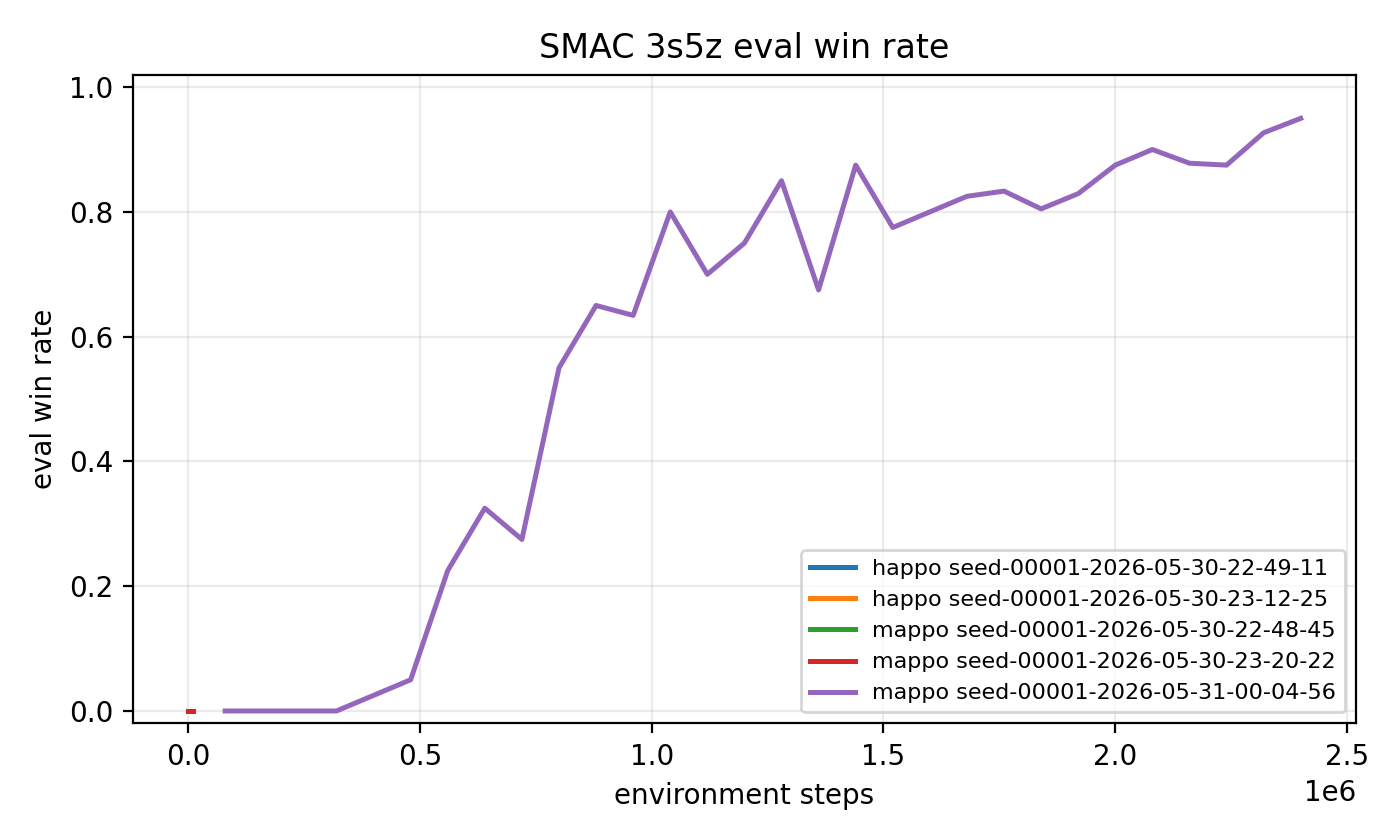
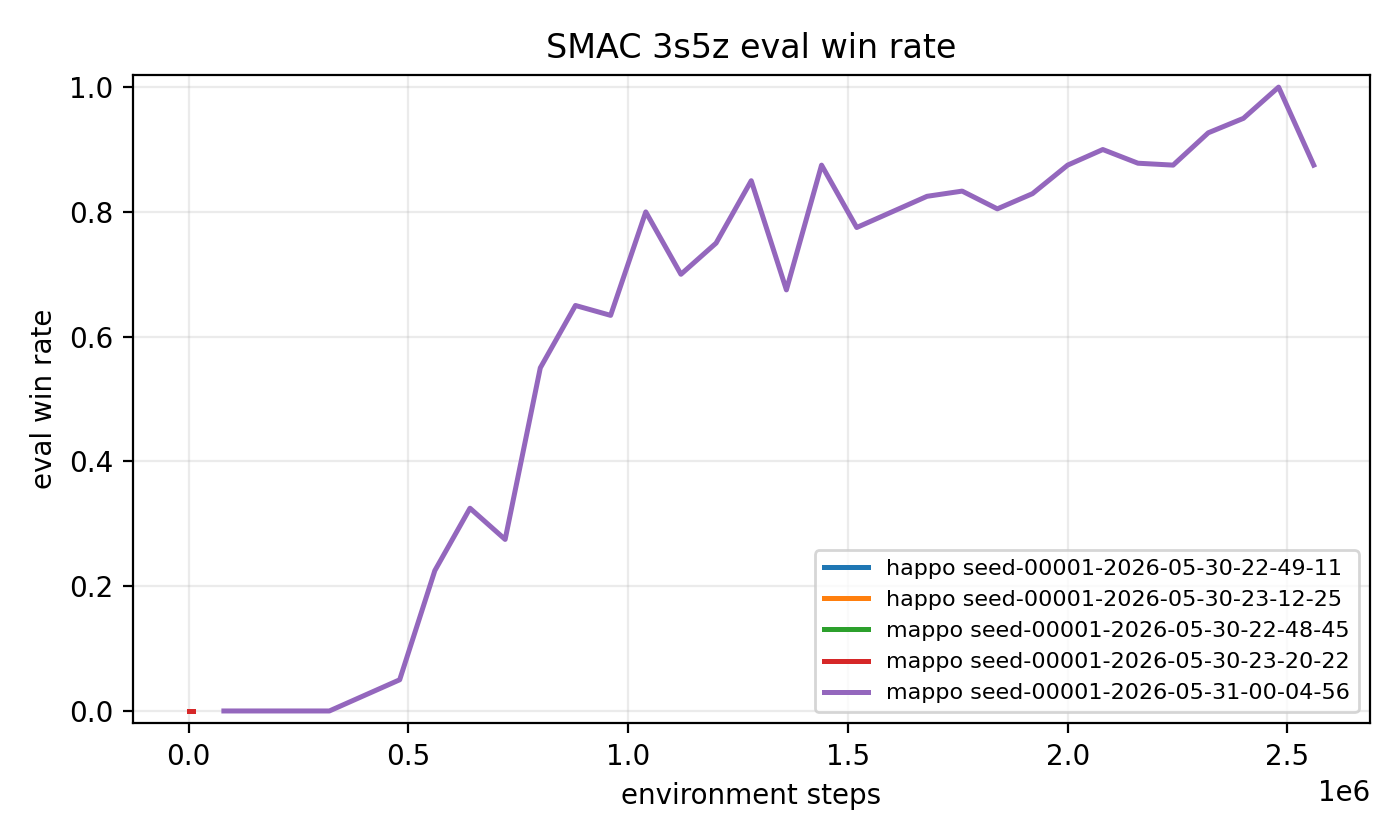
data: update full training checkpoint to 2.56m

diff --git a/report/report.html b/report/report.html
@@ -98,7 +98,7 @@
 
   <div class="abstract">
     <strong>摘要：</strong>
-    本文基于 HARL 代码库和 SMAC 环境，复现 MAPPO 与 HAPPO 在 <code>3s5z</code> 和 <code>8m_vs_9m</code> 两个地图上的训练流程。当前工作已经完成环境安装、代码定位、四组 smoke test、四组 10000-step pilot、<code>progress.txt</code> 汇总和 win rate 绘图；单 seed 正式训练已启动，并同步到 <code>3s5z</code> MAPPO 的 2400000-step checkpoint。由于完整长训练尚未结束，本文现阶段报告重点是复现流程、代码对应关系和阶段性验证结果。
+    本文基于 HARL 代码库和 SMAC 环境，复现 MAPPO 与 HAPPO 在 <code>3s5z</code> 和 <code>8m_vs_9m</code> 两个地图上的训练流程。当前工作已经完成环境安装、代码定位、四组 smoke test、四组 10000-step pilot、<code>progress.txt</code> 汇总和 win rate 绘图；单 seed 正式训练已启动，并同步到 <code>3s5z</code> MAPPO 的 2560000-step checkpoint。由于完整长训练尚未结束，本文现阶段报告重点是复现流程、代码对应关系和阶段性验证结果。
   </div>
 
   <div class="columns">
@@ -154,7 +154,7 @@
     </table>
 
     <h2>7. 结果与分析</h2>
-    <p>目前已完成四组 1000 environment steps 的 smoke test，用于验证环境、训练脚本、日志收集和绘图流程。随后又完成了四组 10000-step pilot run，覆盖 MAPPO/HAPPO 与 <code>3s5z</code>/<code>8m_vs_9m</code> 的完整实验矩阵。2026-05-31 已在 tmux 中启动单 seed full tuned config，并同步到 <code>3s5z</code> MAPPO 的 30 个 evaluation，当前最新 step 为 2400000。由于正式训练仍在运行，这些结果只能作为流程、短跑和早期 full checkpoint 证据，不能作为最终算法性能结论。</p>
+    <p>目前已完成四组 1000 environment steps 的 smoke test，用于验证环境、训练脚本、日志收集和绘图流程。随后又完成了四组 10000-step pilot run，覆盖 MAPPO/HAPPO 与 <code>3s5z</code>/<code>8m_vs_9m</code> 的完整实验矩阵。2026-05-31 已在 tmux 中启动单 seed full tuned config，并同步到 <code>3s5z</code> MAPPO 的 32 个 evaluation，当前最新 step 为 2560000。由于正式训练仍在运行，这些结果只能作为流程、短跑和早期 full checkpoint 证据，不能作为最终算法性能结论。</p>
     <table>
       <caption>Pilot run 最后一次 evaluation 结果</caption>
       <thead>
@@ -173,7 +173,7 @@
         <tr><th>地图</th><th>算法</th><th>Step</th><th>Eval reward / win rate</th></tr>
       </thead>
       <tbody>
-        <tr><td><code>3s5z</code></td><td>MAPPO</td><td>2400000</td><td>19.6812 / 0.95</td></tr>
+        <tr><td><code>3s5z</code></td><td>MAPPO</td><td>2560000</td><td>19.1910 / 0.875</td></tr>
       </tbody>
     </table>
     <figure>
@@ -184,7 +184,7 @@
       <img src="../figures/win_rate_8m_vs_9m.png" alt="8m_vs_9m win rate">
       <figcaption><code>8m_vs_9m</code> smoke/pilot eval win rate；该地图 full run 尚未到达第一轮评估。</figcaption>
     </figure>
-    <p>正式训练完成后，应使用相同脚本重新生成曲线，并重点比较 MAPPO 与 HAPPO 的收敛速度、最终胜率和训练稳定性。对于当前结果，主要结论是训练、评估、日志、汇总和绘图链路已经打通；四组 pilot 均能稳定运行到 10000-step 量级；full 模式已成功进入第一组 MAPPO/<code>3s5z</code> 训练并写出 evaluation，早期 win rate 已从 0 增至最新 0.95，当前最佳同为 0.95。但 2400000 步仍远低于 HARL tuned config 中的 2000 万步，不能用于判断 MAPPO 与 HAPPO 的最终性能。</p>
+    <p>正式训练完成后，应使用相同脚本重新生成曲线，并重点比较 MAPPO 与 HAPPO 的收敛速度、最终胜率和训练稳定性。对于当前结果，主要结论是训练、评估、日志、汇总和绘图链路已经打通；四组 pilot 均能稳定运行到 10000-step 量级；full 模式已成功进入第一组 MAPPO/<code>3s5z</code> 训练并写出 evaluation，早期 win rate 已从 0 增至最新 0.875，当前最佳为 1.0，出现在 2480000 步。但 2560000 步仍远低于 HARL tuned config 中的 2000 万步，不能用于判断 MAPPO 与 HAPPO 的最终性能。</p>
 
     <h2>8. 局限性</h2>
     <p>当前结果的主要局限是训练步数不足。SMAC 任务需要大量交互样本才能学习到稳定微操策略，尤其是 <code>8m_vs_9m</code> 这种非对称地图，随机策略和短训练几乎不可能得到胜利。因此当前 eval win rate 为 0 并不说明算法无效，只说明当前运行覆盖了流程验证、四组短跑检查和一个早期 full checkpoint。正式报告中应补充完整训练曲线，或明确说明计算预算不足导致未完成正式复现。</p>

diff --git a/report/main.tex b/report/main.tex
@@ -26,7 +26,7 @@
 ]
 
 \begin{abstract}
-本文基于 HARL 代码库和 SMAC 环境，复现 MAPPO 与 HAPPO 在 \texttt{3s5z} 和 \texttt{8m\_vs\_9m} 两个地图上的训练流程。当前工作已经完成环境安装、代码定位、四组 smoke test、四组 10000-step pilot、\texttt{progress.txt} 汇总和 win rate 绘图；单 seed 正式训练已启动，并同步到 \texttt{3s5z} MAPPO 的 2400000-step checkpoint。由于完整长训练尚未结束，本文现阶段报告重点是复现流程、代码对应关系和阶段性验证结果。
+本文基于 HARL 代码库和 SMAC 环境，复现 MAPPO 与 HAPPO 在 \texttt{3s5z} 和 \texttt{8m\_vs\_9m} 两个地图上的训练流程。当前工作已经完成环境安装、代码定位、四组 smoke test、四组 10000-step pilot、\texttt{progress.txt} 汇总和 win rate 绘图；单 seed 正式训练已启动，并同步到 \texttt{3s5z} MAPPO 的 2560000-step checkpoint。由于完整长训练尚未结束，本文现阶段报告重点是复现流程、代码对应关系和阶段性验证结果。
 \end{abstract}
 
 \section{引言}
@@ -100,7 +100,7 @@ HAPPO & \texttt{8m\_vs\_9m} & HARL tuned config \\
 
 \section{结果与分析}
 
-目前已完成四组 1000 environment steps 的 smoke test，用于验证环境、训练脚本、日志收集和绘图流程。随后又完成了四组 10000-step pilot run，覆盖 MAPPO/HAPPO 与 \texttt{3s5z}/\texttt{8m\_vs\_9m} 的完整实验矩阵。2026-05-31 已在 tmux 中启动单 seed full tuned config，并同步到 \texttt{3s5z} MAPPO 的 30 个 evaluation，当前最新 step 为 2400000。由于正式训练仍在运行，这些结果只能作为流程、短跑和早期 full checkpoint 证据，不能作为最终算法性能结论。
+目前已完成四组 1000 environment steps 的 smoke test，用于验证环境、训练脚本、日志收集和绘图流程。随后又完成了四组 10000-step pilot run，覆盖 MAPPO/HAPPO 与 \texttt{3s5z}/\texttt{8m\_vs\_9m} 的完整实验矩阵。2026-05-31 已在 tmux 中启动单 seed full tuned config，并同步到 \texttt{3s5z} MAPPO 的 32 个 evaluation，当前最新 step 为 2560000。由于正式训练仍在运行，这些结果只能作为流程、短跑和早期 full checkpoint 证据，不能作为最终算法性能结论。
 
 \begin{table}[h]
 \centering
@@ -124,7 +124,7 @@ HAPPO & \texttt{8m\_vs\_9m} & HARL tuned config \\
 \toprule
 地图 & 算法 & Step & Eval reward / win rate \\
 \midrule
-\texttt{3s5z} & MAPPO & 2400000 & 19.6812 / 0.95 \\
+\texttt{3s5z} & MAPPO & 2560000 & 19.1910 / 0.875 \\
 \bottomrule
 \end{tabular}
 \end{table}
@@ -141,7 +141,7 @@ HAPPO & \texttt{8m\_vs\_9m} & HARL tuned config \\
 \caption{\texttt{8m\_vs\_9m} smoke/pilot eval win rate；该地图 full run 尚未到达第一轮评估。}
 \end{figure}
 
-正式训练完成后，应使用相同脚本重新生成曲线，并重点比较 MAPPO 与 HAPPO 的收敛速度、最终胜率和训练稳定性。对于当前结果，主要结论是：训练、评估、日志、汇总和绘图链路已经打通；四组 pilot 均能稳定运行到 10000-step 量级；full 模式已成功进入第一组 MAPPO/\texttt{3s5z} 训练并写出 evaluation，早期 win rate 已从 0 增至最新 0.95，当前最佳同为 0.95。但 2400000 步仍远低于 HARL tuned config 中的 2000 万步，不能用于判断 MAPPO 与 HAPPO 的最终性能。
+正式训练完成后，应使用相同脚本重新生成曲线，并重点比较 MAPPO 与 HAPPO 的收敛速度、最终胜率和训练稳定性。对于当前结果，主要结论是：训练、评估、日志、汇总和绘图链路已经打通；四组 pilot 均能稳定运行到 10000-step 量级；full 模式已成功进入第一组 MAPPO/\texttt{3s5z} 训练并写出 evaluation，早期 win rate 已从 0 增至最新 0.875，当前最佳为 1.0，出现在 2480000 步。但 2560000 步仍远低于 HARL tuned config 中的 2000 万步，不能用于判断 MAPPO 与 HAPPO 的最终性能。
 
 \section{局限性}
 

diff --git a/logs/artifact_manifest.md b/logs/artifact_manifest.md
@@ -6,7 +6,7 @@ This manifest records deterministic SHA256 hashes for submitted source, report, 
 | --- | ---: | --- |
[7 lines of base64/hex data omitted]
@@ -14,12 +14,12 @@ This manifest records deterministic SHA256 hashes for submitted source, report, 
[15 lines of base64/hex data omitted]
@@ -27,17 +27,17 @@ This manifest records deterministic SHA256 hashes for submitted source, report, 
[23 lines of base64/hex data omitted]
@@ -66,5 +66,5 @@ This manifest records deterministic SHA256 hashes for submitted source, report, 
 ## Summary
 
 - Files: 58
-- Total bytes: 1225880
+- Total bytes: 1231843
 - Excludes generated validation and manifest files to avoid self-referential churn.

diff --git a/logs/experiment_notes.md b/logs/experiment_notes.md
@@ -6,7 +6,7 @@
 | --- | --- | --- | --- |
 | HAPPO | `3s5z` | HARL tuned config | smoke test 与 10000-step pilot 通过，full 队列中 |
 | HAPPO | `8m_vs_9m` | HARL tuned config | smoke test 与 10000-step pilot 通过 |
-| MAPPO | `3s5z` | 基于同地图 HAPPO tuned config 生成 MAPPO 配置 | smoke test 与 10000-step pilot 通过，full 已启动并同步到 2400000-step checkpoint |
+| MAPPO | `3s5z` | 基于同地图 HAPPO tuned config 生成 MAPPO 配置 | smoke test 与 10000-step pilot 通过，full 已启动并同步到 2560000-step checkpoint |
 | MAPPO | `8m_vs_9m` | 基于同地图 HAPPO tuned config 生成 MAPPO 配置 | smoke test 与 10000-step pilot 通过 |
 
 ## dry-run 结果
@@ -80,9 +80,9 @@ SESSION=hw3_full_20260531_seed1 SEEDS=1 EXP_PREFIX=hw3_full bash scripts/launch_
 阶段性结果：
 
 - tmux 会话 `hw3_full_20260531_seed1` 仍在运行。
-- 当前已同步 `MAPPO` + `3s5z` 的 30 个 full evaluation 到 `results/raw/full/`。
-- `results/processed/progress_summary.csv` 当前共有 102 行，其中 full 贡献 30 行。
-- 当前最新 full checkpoint 位于 2400000 environment steps，eval reward 为 19.6812，eval win rate 为 0.95；当前最佳 win rate 为 0.95。
+- 当前已同步 `MAPPO` + `3s5z` 的 32 个 full evaluation 到 `results/raw/full/`。
+- `results/processed/progress_summary.csv` 当前共有 104 行，其中 full 贡献 32 行。
+- 当前最新 full checkpoint 位于 2560000 environment steps，eval reward 为 19.1910，eval win rate 为 0.875；当前最佳 win rate 为 1.0，出现在 2480000 environment steps。
 
 ## 运行记录模板
 
@@ -92,7 +92,7 @@ SESSION=hw3_full_20260531_seed1 SEEDS=1 EXP_PREFIX=hw3_full bash scripts/launch_
 | 2026-05-30 | `MAPS=3s5z ALGOS=happo EXP_PREFIX=hw3_pilot SEEDS=1 conda run -n harl_hw3 bash scripts/run_smac_experiments.sh pilot` | 1 | `external/HARL/examples/results/smac/3s5z/happo/hw3_pilot_pilot_happo_3s5z/seed-00001-2026-05-30-23-12-25` | 10000-step pilot 通过 |
 | 2026-05-30 | `MAPS=3s5z ALGOS=mappo EXP_PREFIX=hw3 SEEDS=1 conda run -n harl_hw3 bash scripts/run_smac_experiments.sh pilot` | 1 | `external/HARL/examples/results/smac/3s5z/mappo/hw3_pilot_mappo_3s5z/seed-00001-2026-05-30-23-20-22` | 10000-step pilot 通过 |
 | 2026-05-30 | `MAPS=8m_vs_9m ALGOS="mappo happo" EXP_PREFIX=hw3 SEEDS=1 conda run -n harl_hw3 bash scripts/run_smac_experiments.sh pilot` | 1 | `external/HARL/examples/results/smac/8m_vs_9m/...` | 2 组 10000-step pilot 通过 |
-| 2026-05-31 | `SESSION=hw3_full_20260531_seed1 SEEDS=1 EXP_PREFIX=hw3_full bash scripts/launch_training_tmux.sh full` | 1 | `external/HARL/examples/results/smac/3s5z/mappo/hw3_full_full_mappo_3s5z/seed-00001-2026-05-31-00-04-56` | 正式训练运行中；已同步到 2400000-step checkpoint |
+| 2026-05-31 | `SESSION=hw3_full_20260531_seed1 SEEDS=1 EXP_PREFIX=hw3_full bash scripts/launch_training_tmux.sh full` | 1 | `external/HARL/examples/results/smac/3s5z/mappo/hw3_full_full_mappo_3s5z/seed-00001-2026-05-31-00-04-56` | 正式训练运行中；已同步到 2560000-step checkpoint |
 
 ## 观察模板
 

diff --git a/SUBMISSION.md b/SUBMISSION.md
@@ -10,7 +10,7 @@
 - `configs/smac/`：MAPPO/HAPPO × `3s5z`/`8m_vs_9m` 的配置快照。
 - `results/raw/smoke/`：4 组 smoke test 的原始 `progress.txt`。
 - `results/raw/pilot/`：4 组 10000-step pilot 的原始 `progress.txt`。
-- `results/raw/full/`：正式训练同步进来的阶段性 `progress.txt`；当前包含 `MAPPO` + `3s5z` 到 2400000-step 的 30 个 evaluation。
+- `results/raw/full/`：正式训练同步进来的阶段性 `progress.txt`；当前包含 `MAPPO` + `3s5z` 到 2560000-step 的 32 个 evaluation。
 - `results/processed/progress_summary.csv`、`results/processed/progress_summary.md`：smoke test、pilot 与阶段性 full checkpoint 的汇总结果。
 - `figures/win_rate_3s5z.png`、`figures/win_rate_8m_vs_9m.png`：smoke/pilot 与阶段性 full 曲线。
 - `logs/`：作业摘要、安装记录、代码阅读笔记、实验笔记。
@@ -23,7 +23,7 @@
 - 学号、姓名、邮箱：需要填入 `report/main.tex`。
 - GitHub push：`origin` 已配置为 `https://github.com/PPYYQQ/MARL-hw3.git`，但非交互式 HTTPS push 缺少 GitHub 凭据；当前系统也未安装 `gh`。
 - LaTeX 编译器：当前系统没有 `xelatex` 或 `pdflatex`；PDF 已通过 Chrome HTML 导出流程生成。
-- 正式训练：当前完成 1000-step smoke test 和 4 组 10000-step pilot；单 seed full 训练已在 `hw3_full_20260531_seed1` 中运行，并同步到 `MAPPO` + `3s5z` 的 2400000-step checkpoint。
+- 正式训练：当前完成 1000-step smoke test 和 4 组 10000-step pilot；单 seed full 训练已在 `hw3_full_20260531_seed1` 中运行，并同步到 `MAPPO` + `3s5z` 的 2560000-step checkpoint。
 
 ## GitHub 同步
 

diff --git a/logs/submission_validation.md b/logs/submission_validation.md
@@ -21,8 +21,8 @@
 | `logs` | OK | directory present |
 | `results/raw/smoke` | OK | directory present |
 | `results/raw/pilot` | OK | directory present |
-| `report/main.pdf` | OK | 809700 bytes; 3 pages |
-| `results/processed/progress_summary.csv` | OK | 102 data rows |
+| `report/main.pdf` | OK | 813463 bytes; 3 pages |
+| `results/processed/progress_summary.csv` | OK | 104 data rows |
 | `results/raw/smoke` | OK | 4 progress.txt files; expected at least 4 |
 | `results/raw/pilot` | OK | 4 progress.txt files; expected at least 4 |
 | `results/raw/full` | WARN | 1 progress.txt files; full training not complete |

diff --git a/logs/full_training_status.md b/logs/full_training_status.md
@@ -26,7 +26,7 @@ env MAPS="3s5z 8m_vs_9m" ALGOS="mappo happo" SEEDS=1 EXP_PREFIX=hw3_full CUDA=tr
 - SC2 check: 20 `SC2_x64` rollout processes were active shortly after launch, matching the tuned config `n_rollout_threads=20`.
 - Progress check: `progress.txt` existed but was still 0 bytes at the first short observation window; full configs evaluate less frequently than smoke/pilot runs.
 - First evaluation: `MAPPO` + `3s5z` reached 80000 environment steps with eval reward 10.1708 and eval win rate 0.0; this row was synced into `results/raw/full/`.
-- Latest synced checkpoint: `MAPPO` + `3s5z` reached 2400000 environment steps with eval reward 19.6812 and eval win rate 0.95; best synced win rate is 0.95 at 2400000 steps.
+- Latest synced checkpoint: `MAPPO` + `3s5z` reached 2560000 environment steps with eval reward 19.1910 and eval win rate 0.875; best synced win rate is 1.0 at 2480000 steps.
 
 ## Monitoring
 

diff --git a/results/processed/progress_summary.md b/results/processed/progress_summary.md
@@ -6,7 +6,7 @@ Source: `results/processed/progress_summary.csv`
 | --- | --- | --- | ---: | ---: | ---: | ---: | ---: | ---: |
 | pilot | `3s5z` | happo | 12 | 9600 | 4.0629 | 0.0000 | 9.5795 | 0.0000 |
 | smoke | `3s5z` | happo | 6 | 960 | 5.5166 | 0.0000 | 5.5166 | 0.0000 |
-| full | `3s5z` | mappo | 30 | 2400000 | 19.6812 | 0.9500 | 19.6812 | 0.9500 |
+| full | `3s5z` | mappo | 32 | 2560000 | 19.1910 | 0.8750 | 20.0020 | 1.0000 |
 | pilot | `3s5z` | mappo | 12 | 9600 | 7.6954 | 0.0000 | 10.4901 | 0.0000 |
 | smoke | `3s5z` | mappo | 6 | 960 | 6.4834 | 0.0000 | 6.9669 | 0.0000 |
 | pilot | `8m_vs_9m` | happo | 12 | 9600 | 5.0072 | 0.0000 | 7.5108 | 0.0000 |